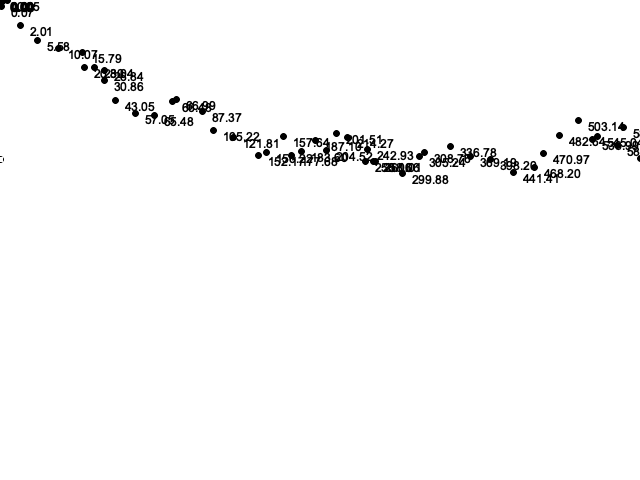
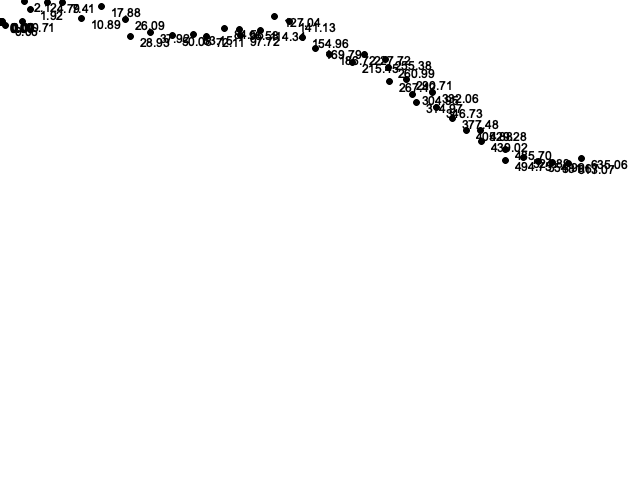
small changes

Changed region(s): [[0.0, 0.0, 1.0, 0.4062]]

diff --git a/one_plus_one/src/graphics/basic.rs b/one_plus_one/src/graphics/basic.rs
@@ -18,10 +18,6 @@ pub fn plot_path_evolution(path: Vec<custom_types::custom_types::Point>) -> Resu
         ys.push(path[i].y);
     }
 
-    //let max_x: f64 = *xs.iter().max().unwrap();
-    //let min_x: f64 = *xs.iter().min().unwrap();
-    //let max_y: f64 = *ys.iter().max().unwrap();
-    //let min_y: f64 = *ys.iter().min().unwrap();
     let mut max_x: f64 = xs[0];
     let mut max_y: f64 = xs[0];
     let mut min_x: f64 = ys[0];
@@ -43,19 +39,19 @@ pub fn plot_path_evolution(path: Vec<custom_types::custom_types::Point>) -> Resu
         }
     }
 
-
-    // graphic shit
+    // graphic
     let root = BitMapBackend::new("graphic.png", (640, 480)).into_drawing_area();
     root.fill(&RGBColor(255, 255, 255))?;
 
+    let adjust_limit = | x: f64 | {
+        x * (1f64 + 0.10f64)
+    };
+
     let root = root.apply_coord_spec(Cartesian2d::<RangedCoordf64, RangedCoordf64>::new(
-        min_x..max_x,
-        min_y..max_y,
-        //-10f64..10f64,
-        //-10f64..10f64,
+        adjust_limit(min_x)..adjust_limit(max_x),
+        adjust_limit(min_y)..adjust_limit(max_y),
         (0..640, 0..480),
     ));
-
 
     let dot_and_label = |x: f64, y: f64, z: f64| {
         return EmptyElement::at((x, y))
